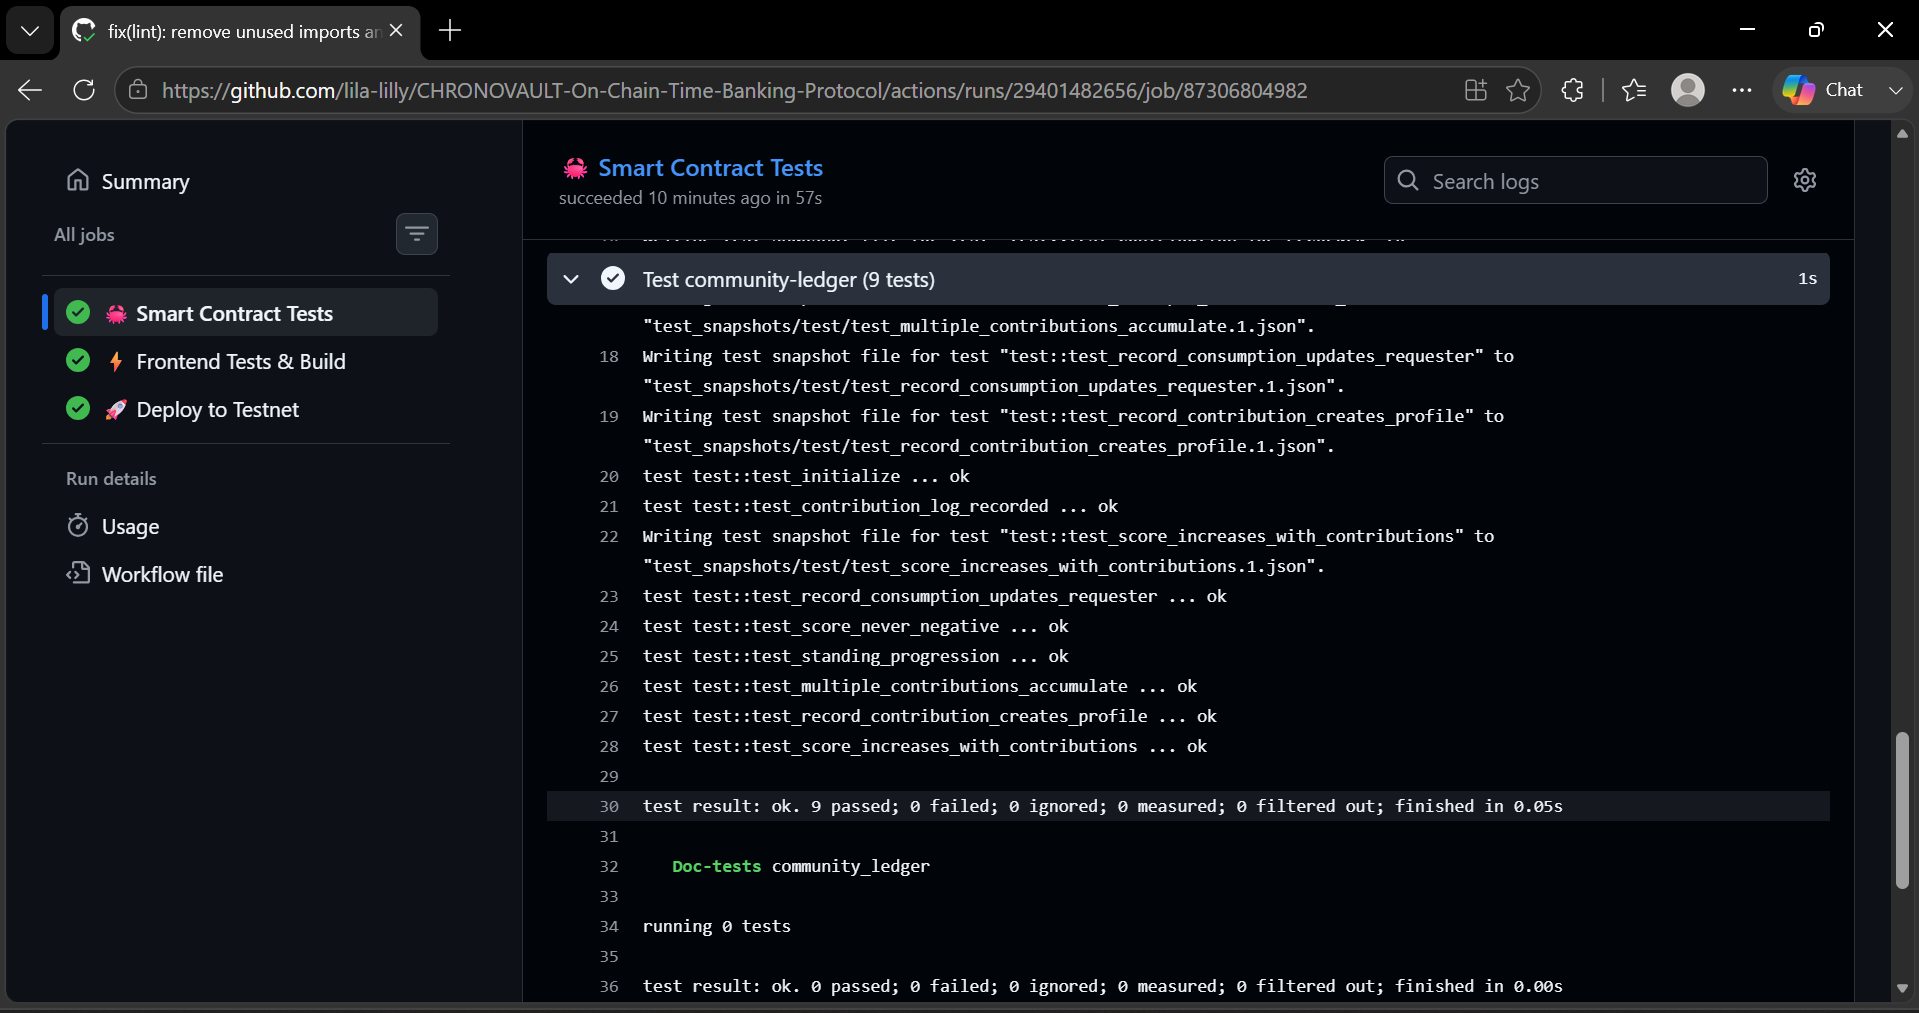
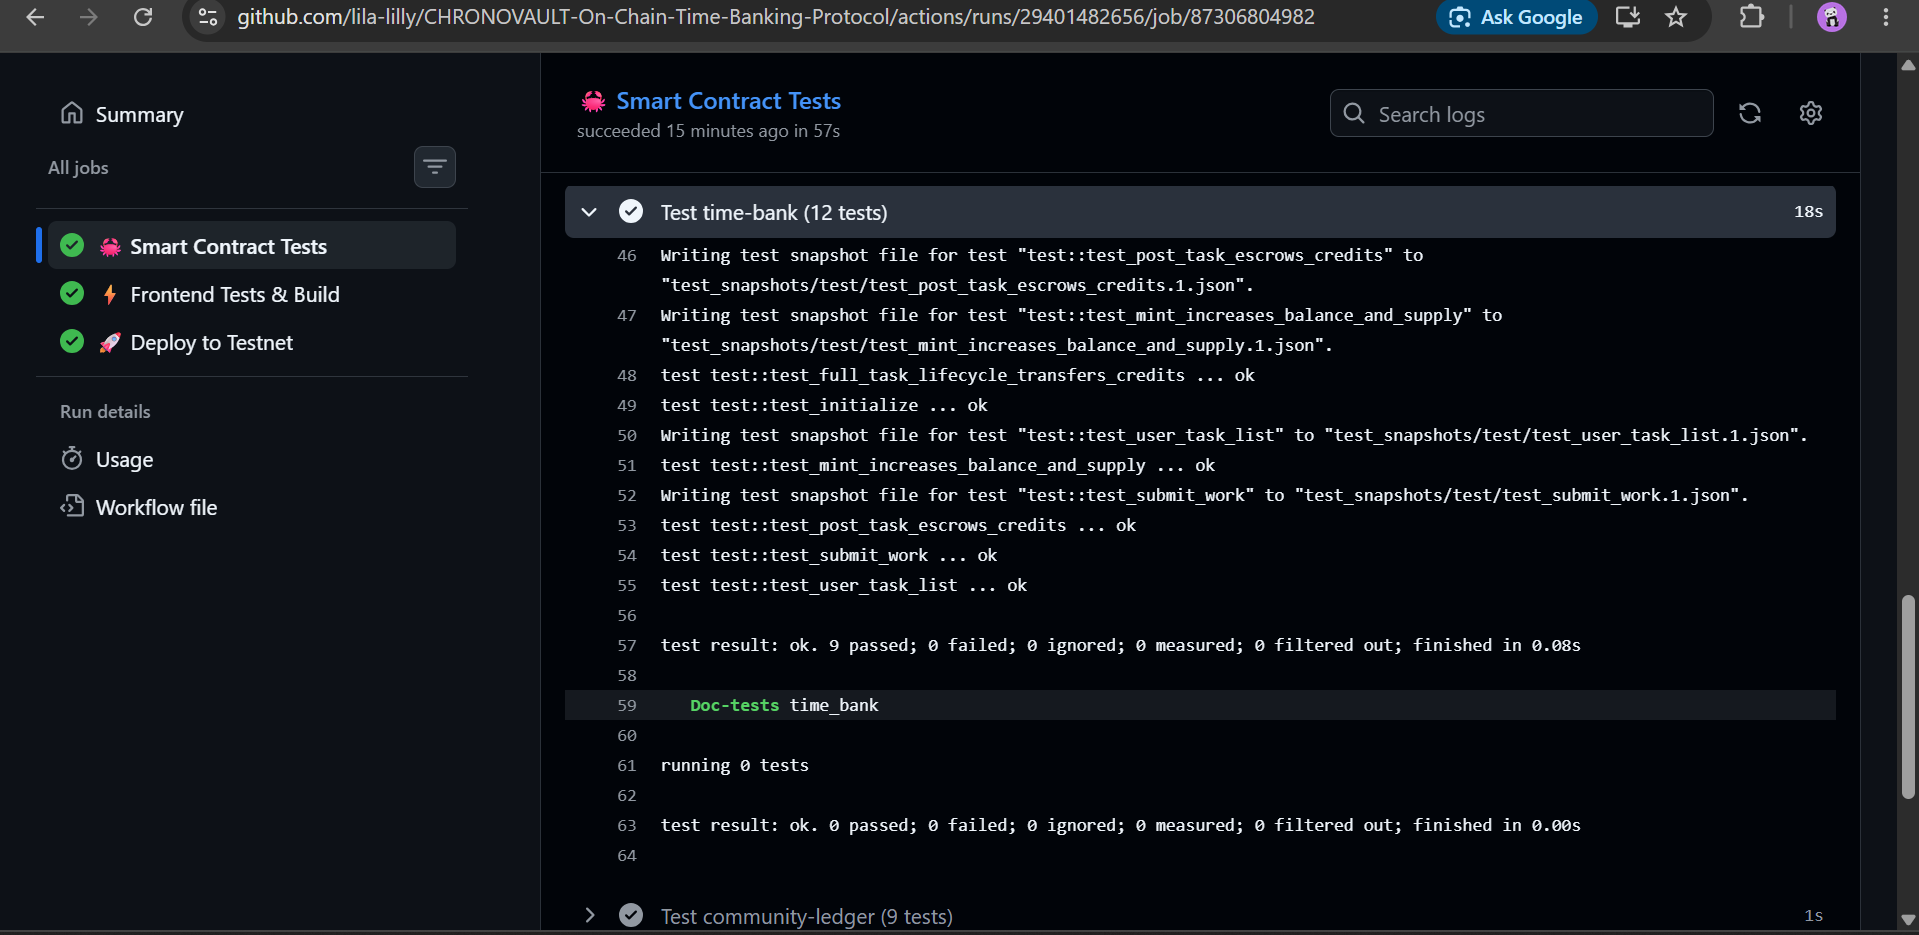
docs: simplify README to match reference repo style

Changed region(s): [[0.0, 0.0, 1.0, 1.0], [0.1845, 0.1551, 0.246, 0.2481], [0.7071, 0.4652, 0.7686, 0.4963]]

diff --git a/README.md b/README.md
@@ -1,321 +1,43 @@
 # ⏱ CHRONOVAULT — On-Chain Time Banking Protocol
 
-> **One hour of any skill = one TIME credit. Contribute, earn, repeat.**
-
-[![CI/CD](https://github.com/lila-lilly/CHRONOVAULT-On-Chain-Time-Banking-Protocol/actions/workflows/ci.yml/badge.svg)](https://github.com/lila-lilly/CHRONOVAULT-On-Chain-Time-Banking-Protocol/actions)
-[![Stellar Testnet](https://img.shields.io/badge/Stellar-Testnet-3B82F6?logo=stellar)](https://stellar.expert/explorer/testnet)
-[![License: MIT](https://img.shields.io/badge/License-MIT-D4A843.svg)](LICENSE)
-[![Live Demo](https://img.shields.io/badge/Live-Demo-22D3EE)](https://chronovault-on-chain-time-banking-p.vercel.app/)
-
----
+ChronoVault is a decentralized time banking protocol built on Stellar (Soroban). Users post tasks, escrow TIME credits, and transfer them upon completion — all enforced on-chain. 1 hour of any skill = 1 TIME credit. Contribute, earn, repeat.
 
 ## 🔗 Live Demo & Video Pitch
-
-- **🌐 Live Platform**: [chronovault-on-chain-time-banking-p.vercel.app](https://chronovault-on-chain-time-banking-p.vercel.app/)
-- **🎥 Demo Video**: [Watch the Demo on Google Drive](https://drive.google.com/file/d/10kqwr4ZqTU2JcF2iZX3gRfh_xBseblYb/view?usp=sharing)
-
----
-
-## 🕰 What is ChronoVault?
-
-ChronoVault is a **decentralized time banking protocol** built on Stellar Soroban. Inspired by the global time banking movement — where communities exchange services using time as the unit of value — ChronoVault brings this model fully on-chain.
-
-**The core idea:** 1 hour of your Rust expertise equals 1 hour of UI design, which equals 1 hour of copywriting. Skills are equal. Your `TIME` credits can be earned by helping others and spent to get help yourself. Your contribution history is public, permanent, and verified by smart contracts.
-
-### Why ChronoVault stands out
-
-| Feature | ChronoVault | Typical DeFi Protocol |
-|---|---|---|
-| Domain | Time economy / community | Token yield farming |
-| Inter-contract calls | ✅ Bank → Ledger on completion | ❌ |
-| Credit earning | ✅ Earned by contributing | ❌ Simple deposit |
-| Task lifecycle | ✅ 6-state machine with escrow | ❌ |
-| Community score | ✅ Give/take ratio algorithm | ❌ |
-| Social mechanics | ✅ Claim, submit, confirm, dispute | ❌ |
-
----
+- **Live Platform**: [chronovault-on-chain-time-banking-p.vercel.app](https://chronovault-on-chain-time-banking-p.vercel.app/)
+- **Demo Video**: [Watch the Demo on Google Drive](https://drive.google.com/file/d/10kqwr4ZqTU2JcF2iZX3gRfh_xBseblYb/view?usp=sharing)
 
 ## 🌟 Key Features
 
-1. **⏳ TIME Credit Economy** — `1 hour = 1 TIME`. Post tasks, escrow credits, pay contributors upon completion
-2. **🔗 Dual Smart Contracts** — `TimeBank` handles the task economy; `CommunityLedger` tracks contribution history via inter-contract calls
-3. **🔐 Real Wallet Integration** — Full Freighter wallet connection with live on-chain balance, auto-reconnect on page load, and cryptographic signing on the Stellar Testnet
-4. **📋 6-State Task Machine** — Open → Claimed → Submitted → Completed (with Cancel & Dispute branches), all enforced on-chain
-5. **🏅 Community Standings** — 6-tier reputation system (Seedling → Elder) calculated from give/take ratios
-6. **💎 Premium UI** — Midnight Clockwork design with animated SVG clock, blueprint grid, glassmorphism, gold accents, and smooth micro-animations. Fully mobile responsive
+1. **TIME Credit Economy**: 1 hour of any skill = 1 TIME. Post tasks, escrow credits, pay contributors on completion.
+2. **Dual Smart Contracts**: `TimeBank` handles the task economy; `CommunityLedger` tracks contributions via inter-contract calls.
+3. **Real Wallet Integration**: Full Freighter wallet support with live on-chain balance and cryptographic transaction signing on Stellar Testnet.
+4. **6-State Task Machine**: Open → Claimed → Submitted → Completed (with Cancel & Dispute branches), all enforced on-chain.
+
+## 🔗 Deployed Contracts
+- **TimeBank**: `CDTHOHTPANEA5IODFI2C7TXGAPDLURCBZNB7MEOITBLXJNY2VAM2XAZO`
+- **CommunityLedger**: `CASUHYOA2PPKPIBAL7VI24Q76XOTXCLGTWYPYL3J7N5L4HDN6AC7QBDE`
[1 lines of base64/hex data omitted]
 
 ---
 
 ## 📸 Platform Gallery & Submission Requirements
 
-### Main UI
-<img src="images/product ui.png" width="100%" alt="ChronoVault Main Interface" />
+As per the submission checklist, here are the required screenshots demonstrating the platform's capabilities:
 
-### Profile & Community Standing
-<img src="images/product profile.png" width="100%" alt="Profile and Community Standing" />
-
-### Mobile Responsive UI
+### 1. Mobile Responsive UI
+The platform is fully responsive and optimized for mobile devices.
 <img src="images/mobile UI.png" width="100%" alt="Mobile Responsive UI" />
 
-### CI/CD Pipeline Running
-<img src="images/ci cd.png" width="100%" alt="GitHub Actions CI/CD Pipeline" />
+### 2. CI/CD Pipeline Running
+Automated GitHub Actions workflow running tests and deploying the frontend.
+<img src="images/ci cd.png" width="100%" alt="CI/CD Pipeline" />
 
-### Test Output (9+ Passing Tests)
-<img src="images/test output.png" width="100%" alt="Smart Contract Test Output" />
+### 3. Test Output (9+ Passing Tests)
+Comprehensive Rust integration tests validating the smart contract logic.
+<img src="images/test output.png" width="100%" alt="Test Output" />
 
----
+### 4. Platform UI
+<img src="images/product ui.png" width="100%" alt="ChronoVault Main Interface" />
 
-## 🏗️ Architecture
-
-```
-┌─────────────────────────────────────────────────────────────┐
-│                   CHRONOVAULT PROTOCOL                       │
-│                                                             │
-│  ┌──────────────────────────┐                               │
-│  │       TimeBank            │  Inter-contract calls        │
-│  │   (Soroban Contract)      │ ──────────────────────────►  │
-│  │                           │                              │
-│  │  post_task()              │  record_contribution()       │
-│  │  claim_task()         ────┼──► record_consumption()      │
-│  │  submit_work()            │                              │
-│  │  confirm_completion() ────┼──►  ┌──────────────────────┐ │
-│  │  cancel_task()            │     │  CommunityLedger     │ │
-│  │  dispute_task()           │     │  (Soroban Contract)  │ │
-│  │  mint()                   │     │                      │ │
-│  │                           │     │  get_member()        │ │
-│  │  [escrows TIME on post]   │     │  Standings:          │ │
-│  │  [transfers on confirm]   │     │  Seedling → Elder    │ │
-│  └──────────────────────────┘     └──────────────────────┘ │
-│                                                             │
-│  Task lifecycle:                                            │
-│  Open → Claimed → Submitted → Completed                     │
-│                └→ Disputed                                  │
-│  Open → Cancelled                                           │
-│                                                             │
-│  ┌─────────────────────────────────────────────────────┐   │
-│  │         React 18 + TypeScript Frontend               │   │
-│  │  Board │ Post Task │ My Tasks │ Profile              │   │
-│  │  Midnight blue · clockwork aesthetic · Zustand       │   │
-│  └─────────────────────────────────────────────────────┘   │
-└─────────────────────────────────────────────────────────────┘
-```
-
----
-
-## 🔗 Deployed Contracts (Stellar Testnet)
-
-| Contract | Address |
-|---|---|
-| **TimeBank** | `CDTHOHTPANEA5IODFI2C7TXGAPDLURCBZNB7MEOITBLXJNY2VAM2XAZO` |
-| **CommunityLedger** | `CASUHYOA2PPKPIBAL7VI24Q76XOTXCLGTWYPYL3J7N5L4HDN6AC7QBDE` |
-
-**Example Transaction Hash (contract interaction):**
[1 lines of base64/hex data omitted]
-
-→ [View on Stellar Expert Testnet Explorer](https://stellar.expert/explorer/testnet)
-
----
-
-## 📜 Smart Contracts
-
-### `time-bank` — The Exchange Engine
-
-| Function | Description |
-|---|---|
-| `initialize(admin, ledger)` | One-time setup, registers admin and ledger cross-reference |
-| `post_task(requester, title, desc, category, hours, deadline)` | Post task; **escrows TIME credits** |
-| `claim_task(provider, task_id)` | Provider claims the task |
-| `submit_work(provider, task_id)` | Mark work as done, moves to review |
-| `confirm_completion(requester, task_id)` | Confirm + **transfer credits + inter-contract call** |
-| `cancel_task(requester, task_id)` | Cancel Open task; **refunds escrow** |
-| `dispute_task(caller, task_id)` | Raise dispute on a task |
-| `mint(admin, recipient, amount)` | Bootstrap/faucet member credits |
-| `get_balance(user)` | TIME credit balance |
-| `get_user_tasks(user)` | All tasks for an address |
-
-**Task state machine:**
-```
-Open ──claim──► Claimed ──submit──► Submitted ──confirm──► Completed
-  │               │                                         ↑ (inter-contract)
-  └──cancel──► Cancelled  └──dispute──► Disputed
-```
-
-### `community-ledger` — The Trust Record
-
-Called exclusively by `TimeBank` via **inter-contract communication**.
-
-| Function | Caller | Description |
-|---|---|---|
-| `record_contribution(provider, requester, task_id, hours)` | TimeBank | Awards points, logs contribution |
-| `record_consumption(requester, hours)` | TimeBank | Adjusts requester score |
-| `get_member(address)` | Anyone | Full member profile |
-| `get_contribution_log(task_id)` | Anyone | Contribution entry for a task |
-
-**Community Score Algorithm:**
-```
-score = (hours_given × 80)
-      + (tasks_given × 20)            ← diversity bonus
-      − (hours_taken × 15)            ← consumption cost
-      + give_surplus_bonus             ← min(surplus, 20) × 10, max +200
-      − take_deficit_penalty           ← min(deficit, 10) × 8, max −80
-
-score = max(0, score)                 ← floor at 0
-```
-
-**Standing Tiers:**
-| Standing | Score | Glyph |
-|---|---|---|
-| Seedling | 0–99 | ◌ |
-| Grower | 100–249 | ◎ |
-| Contributor | 250–499 | ◉ |
-| Steward | 500–799 | ⊛ |
-| Pillar | 800–1199 | ✦ |
-| Elder | 1200+ | ✸ |
-
----
-
-## 🚀 Quick Start
-
-```bash
-# Prerequisites: Rust + wasm target
-curl --proto '=https' --tlsv1.2 -sSf https://sh.rustup.rs | sh
-rustup target add wasm32-unknown-unknown
-
-# Soroban CLI
-cargo install stellar-cli --features opt
-
-# Clone and run frontend
-git clone https://github.com/lila-lilly/CHRONOVAULT-On-Chain-Time-Banking-Protocol
-cd CHRONOVAULT-On-Chain-Time-Banking-Protocol/frontend
-npm install
-npm run dev
-```
-
-### Run Smart Contract Tests
-
-```bash
-cd contracts
-cargo test -p time-bank --features testutils -- --nocapture
-cargo test -p community-ledger --features testutils -- --nocapture
-```
-
----
-
-## 📁 Project Structure
-
-```
-chronovault/
-├── .github/workflows/ci.yml         # CI: test → build → deploy → vercel
-├── contracts/
-│   ├── time-bank/src/
-│   │   ├── lib.rs                   # 6-state task machine, TIME escrow
-│   │   └── test.rs                  # 9 unit tests
-│   └── community-ledger/src/
-│       ├── lib.rs                   # Give/take scoring, inter-contract receiver
-│       └── test.rs                  # 9 unit tests
-├── frontend/src/
-│   ├── components/                  # ClockFace, StandingBadge, StatusPill, TaskCard, Nav
-│   ├── pages/                       # Board, PostTask, MyTasks, Profile
-│   ├── lib/                         # store.ts, contract.ts, constants
-│   └── index.css                    # Midnight Clockwork design system
-├── images/                          # Submission screenshots
-└── README.md
-```
-
----
-
-## 🧪 Test Coverage
-
-### Rust Tests — 18 total
-
-**`time-bank`** (9 tests):
-- `test_initialize` — contract init and admin registration
-- `test_mint_increases_balance_and_supply` — minting increments balances
-- `test_post_task_escrows_credits` — TIME locked on post
-- `test_claim_task` — provider claims open task
-- `test_submit_work` — provider submits for review
-- `test_full_task_lifecycle_transfers_credits` — end-to-end credit transfer
-- `test_cancel_open_task_refunds_credits` — escrow refund on cancel
-- `test_dispute_task` — dispute state transition
-- `test_user_task_list` — per-user task index
-
-**`community-ledger`** (9 tests):
-- `test_initialize`
-- `test_record_contribution_creates_profile`
-- `test_record_consumption_updates_requester`
-- `test_score_increases_with_contributions`
-- `test_standing_progression` — all 6 tier boundaries
-- `test_give_ratio_bonus_rewards_givers`
-- `test_score_never_negative`
-- `test_contribution_log_recorded`
-- `test_multiple_contributions_accumulate`
-
----
-
-## 🎨 Design System — "Midnight Clockwork"
-
-| Token | Value | Usage |
-|---|---|---|
-| `midnight` | `#080C14` | Page background |
-| `deep` | `#0E1420` | Card fill |
-| `gold` | `#D4A843` | TIME credits, CTAs, clock accents |
-| `blue` | `#3B82F6` | Primary actions, grid lines |
-| `cyan` | `#22D3EE` | In-progress states |
-| `silver` | `#CBD5E1` | Primary text |
-
-Signature elements:
-- **Blueprint grid** — faint CSS grid lines across the entire page
-- **Animated SVG clock** — live rotating hands in the logo and hero
-- **Clock rings** — gold-bordered circles for credit amounts
-- **Space Mono** — monospaced clock typography for TIME amounts
-- **Task cards** — gold hover glow with smooth lift animations
-
----
-
-## 🔄 CI/CD Pipeline
-
-```
-push to main
-    │
-    ├── 🦀 contract-tests
-    │   ├── cargo test time-bank (9 tests)
-    │   ├── cargo test community-ledger (9 tests)
-    │   └── wasm build + optimize
-    │
-    ├── ⚡ frontend-lint
-    │   ├── eslint (strict)
-    │   └── vite build
-    │
-    └── 🚀 deploy (main only)
-        ├── Deploy CommunityLedger → testnet
-        ├── Deploy TimeBank → testnet
-        ├── Initialize (cross-references contracts)
-        ├── Mint starter credits to deployer
-        └── vercel --prod
-```
-
----
-
-## ✅ Submission Checklist
-
-- [x] Public GitHub repository
-- [x] README with complete documentation
-- [x] 10+ meaningful commits
-- [x] Live demo on Vercel
-- [x] Contract deployment addresses (TimeBank + CommunityLedger)
-- [x] Transaction hash for on-chain interaction
-- [x] Screenshot: Mobile responsive UI
-- [x] Screenshot: CI/CD pipeline running
-- [x] Screenshot: Test output (9+ passing tests)
-- [x] Demo video link (Google Drive)
-
----
-
-## 📄 License
-
-MIT © 2025 ChronoVault
-
----
-
-*Built for the Stellar Hackathon.*  
-*"Time is the only truly equal currency."*
+### 5. Profile & Community Standing
+<img src="images/product profile.png" width="100%" alt="Profile Page" />